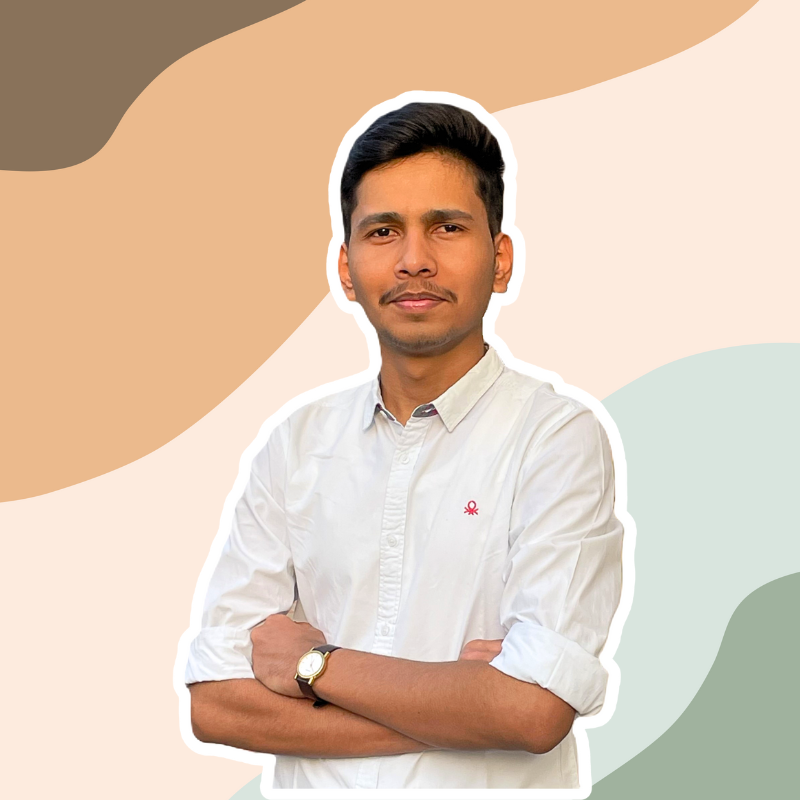
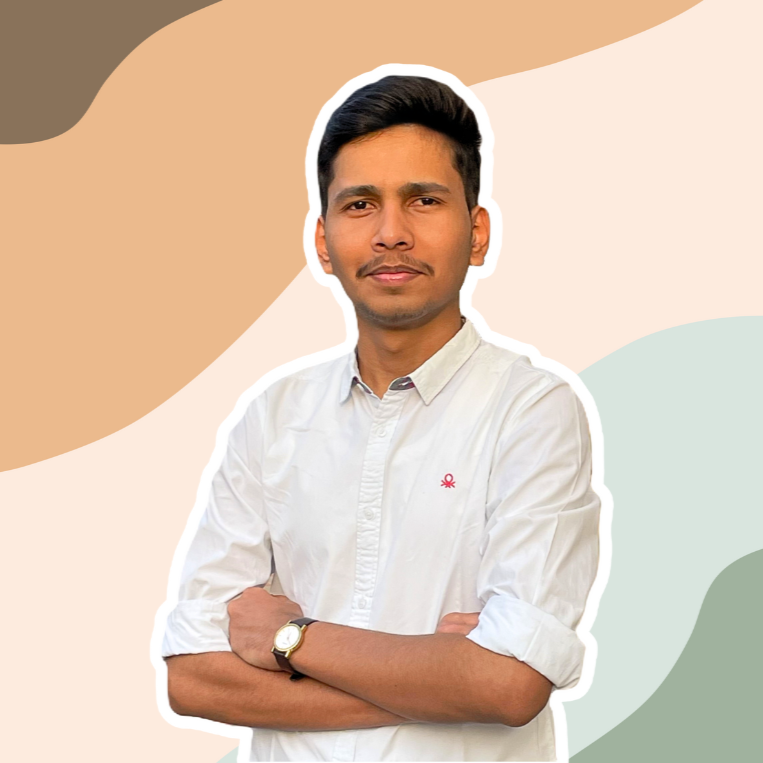
chore: Update image border and shadow in about section

diff --git a/index.html b/index.html
@@ -73,6 +73,8 @@
           onclick="window.open('https://developers.google.com/profile/u/sairajpatil')" />
         <img src="./assets/icons8-leetcode-96.png" alt="My leetcode profile" class=" icon"
           onclick="window.open('https://leetcode.com/sairajpatil108/')" />
+        <img src="./assets/google cloud logo.png" alt="My leetcode profile" class=" icon"
+          onclick="window.open('https://www.cloudskillsboost.google/public_profiles/372a8e89-a961-4e3d-aa55-3311de5c539b')" />
       </div>
     </div>
   </section>

diff --git a/style.css b/style.css
@@ -296,15 +296,16 @@ section {
 
 
 .about-pic {
-  border-radius: 25%;
-  border: 0.6cap solid white;
+  border-radius: 100%;
+  box-shadow: 0 4px 8px rgba(0, 0, 0, 0.2);
+  /* border: 0.0cap solid white; */
   /* Border width */
 }
 
 
 @media screen and (min-width: 768px) {
   .about-pic {
-    border-radius: 5rem;
+    border-radius: 50rem;
   }
 }
 
